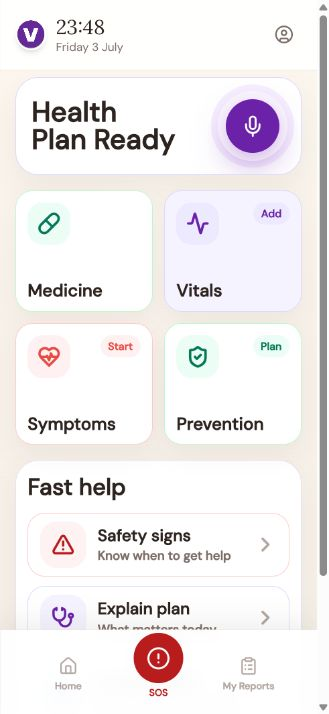
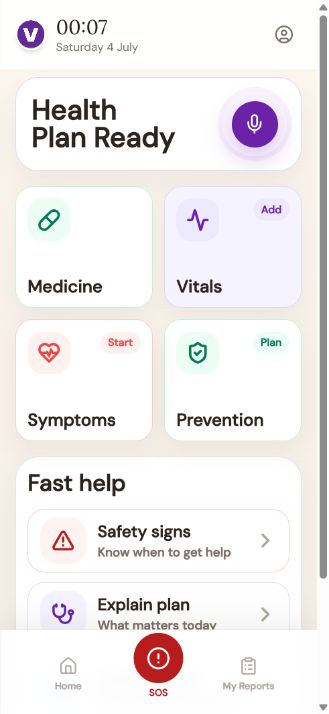
Soften hero mic affordance

diff --git a/src/components/VyvaSessionCta.tsx b/src/components/VyvaSessionCta.tsx
@@ -263,11 +263,11 @@ export function VyvaSessionCta({
         >
           {isVoiceRail ? (
             <>
-              <span className="absolute inset-[-10px] rounded-full bg-[#F3E8FF] opacity-70" aria-hidden="true" />
-              <span className="absolute inset-[-3px] rounded-full bg-[radial-gradient(circle,#FFFFFF_0%,#F7F1FF_58%,#FFF8F0_100%)] shadow-[0_16px_30px_rgba(107,33,168,0.14)]" aria-hidden="true" />
-              <span className="relative flex h-14 w-14 shrink-0 items-center justify-center rounded-full bg-[#6B21A8] text-white shadow-[0_8px_18px_rgba(107,33,168,0.24)]">
+              <span className="absolute inset-[-7px] rounded-full bg-[#F3E8FF] opacity-50" aria-hidden="true" />
+              <span className="absolute inset-[-2px] rounded-full bg-[radial-gradient(circle,#FFFFFF_0%,#F8F2FF_62%,#FFF9F2_100%)] shadow-[0_10px_22px_rgba(107,33,168,0.10)]" aria-hidden="true" />
+              <span className="relative flex h-12 w-12 shrink-0 items-center justify-center rounded-full bg-[#6B21A8] text-white shadow-[0_7px_16px_rgba(107,33,168,0.20)]">
                 <Icon
-                  size={24}
+                  size={22}
                   className={`${isPreparing ? "animate-spin" : ""} ${iconClassName ?? ""}`.trim()}
                   aria-hidden="true"
                 />

diff --git a/src/components/MasterDashboardLayout.tsx b/src/components/MasterDashboardLayout.tsx
@@ -187,7 +187,7 @@ export default function MasterDashboardLayout({
               testId={hero.action.testId}
               supportingLabel={hero.action.supportingLabel}
               visual="voiceRail"
-              className="vyva-tap relative flex !h-[68px] !min-h-[68px] !w-[68px] flex-shrink-0 items-center justify-center rounded-full border border-[#E8DDF3] bg-white text-vyva-purple transition-transform hover:-translate-y-0.5 disabled:cursor-wait disabled:opacity-75 min-[390px]:!h-[72px] min-[390px]:!min-h-[72px] min-[390px]:!w-[72px]"
+              className="vyva-tap relative flex !h-[64px] !min-h-[64px] !w-[64px] flex-shrink-0 items-center justify-center rounded-full border border-[#E8DDF3] bg-white text-vyva-purple transition-transform hover:-translate-y-0.5 disabled:cursor-wait disabled:opacity-75 min-[390px]:!h-[68px] min-[390px]:!min-h-[68px] min-[390px]:!w-[68px]"
             />
           ) : null}
         </div>

diff --git a/artifacts/approved-designs/master-layout-spec.md b/artifacts/approved-designs/master-layout-spec.md
@@ -10,7 +10,7 @@ The category-level page pattern is:
 
 - Header with VYVA mark, time/date, and profile.
 - One large white hero card with a single left-aligned main message.
-- One icon-only mic affordance on the right side of the hero, with no decorative chat icon or visible `Talk to VYVA` text.
+- One quiet icon-only mic affordance on the right side of the hero, with no decorative chat icon or visible `Talk to VYVA` text.
 - Four large primary cards in a 2 by 2 grid.
 - One white `Fast help` panel with three visible rows.
 - Bottom navigation remains `Home / SOS / My Reports`.
